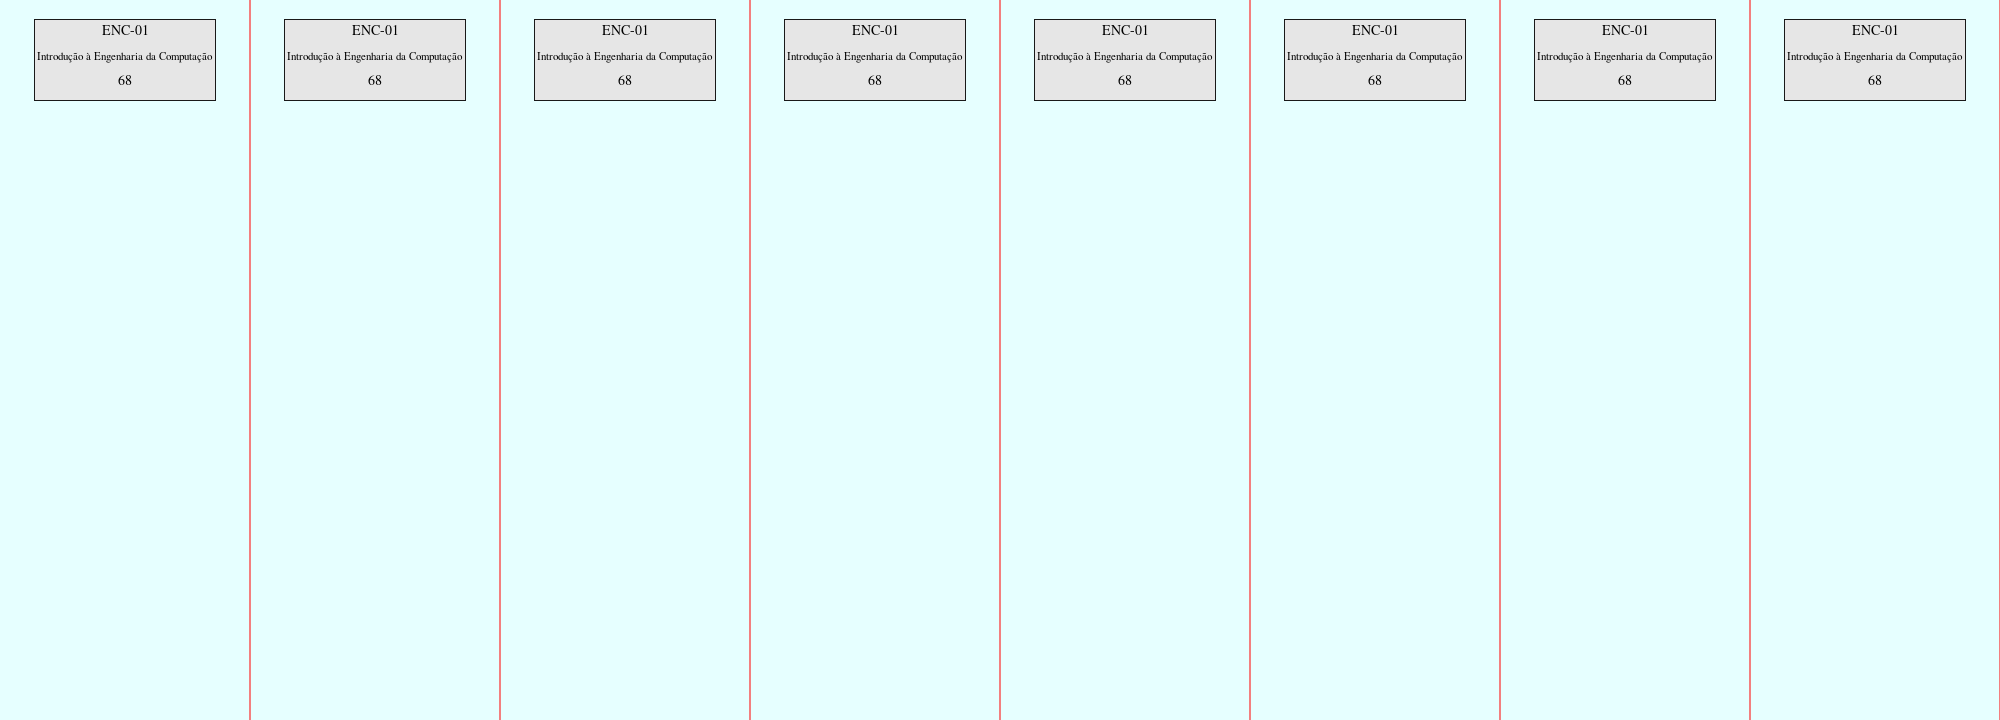
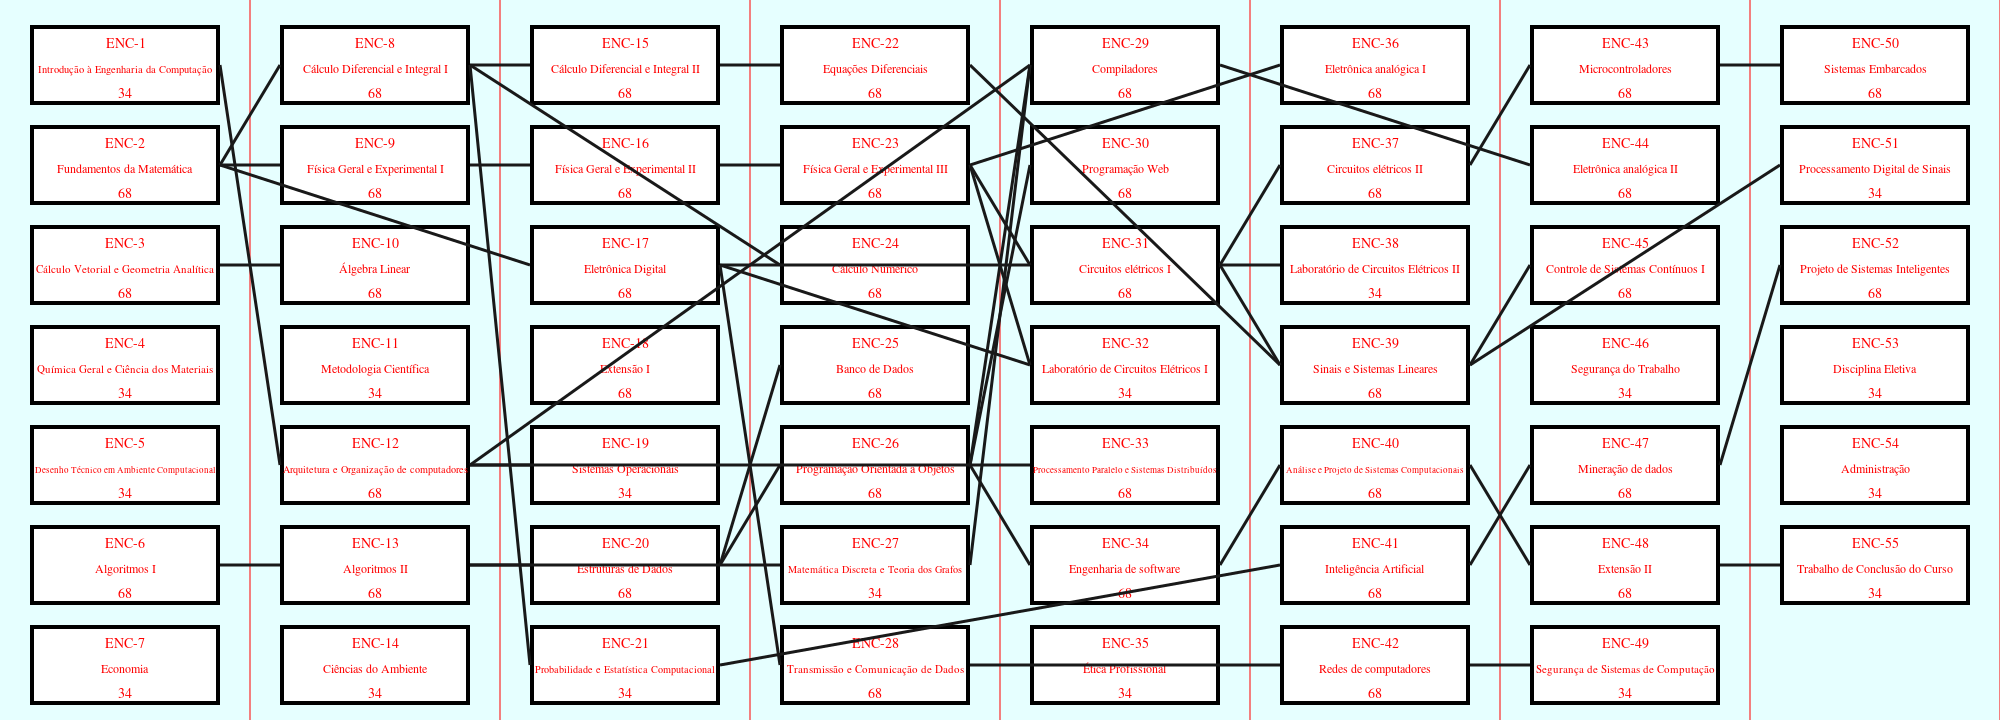
graph and dependecies plotted

diff --git a/draw.py b/draw.py
@@ -1,4 +1,5 @@
 import math
+import pandas as pd
 import cairo
 
 WIDTH, HEIGHT = 2000, 720
@@ -7,75 +8,136 @@ surface = cairo.ImageSurface(cairo.FORMAT_ARGB32, WIDTH, HEIGHT)
 ctx = cairo.Context(surface)
 ctx.select_font_face("Times", cairo.FONT_SLANT_NORMAL, cairo.FONT_WEIGHT_NORMAL)
 
-#ctx.scale(WIDTH, HEIGHT)  # Normalizing the canvas
-coord = {}
+lanes = {} # identified by index
+lane_count = {} # number of discipline per lane
+discipline = {} # identified by code
 
 def draw_background(*color):
     ctx.set_source_rgb(*color)
     ctx.rectangle(0, 0, WIDTH, HEIGHT)
     ctx.fill()
 
-def find_max_font_size(text, max_width):
-    font_size = 0
-    w = 0
-    while w < max_width:
-        font_size += 0.1
-        ctx.set_font_size(font_size)
-        _, _, w, _, _, _ = ctx.text_extents(text)
-    return font_size - 0.1
 
-def draw_text_f(x, y, text, max_width):
-    font_size = find_max_font_size(text, max_width)
+def set_font_size_and_get_width(font_size, text):
     ctx.set_font_size(font_size)
     _, _, w, _, _, _ = ctx.text_extents(text)
-    ctx.move_to(x + (max_width / 2 - w / 2), y)
+    return w
+
+def find_max_font_size(text, max_width):
+    font_size, width = 0, 0
+    while width < max_width:
+        font_size += 0.1
+        width = set_font_size_and_get_width(font_size, text)
+    width = set_font_size_and_get_width(font_size, text)
+    return font_size, width
+
+def center_horizontally(x, text_width, total_width):
+    return x + total_width / 2 - text_width / 2
+
+def middle(a, b):
+    return (a + b) / 2
+        
+
+def draw_text_centered_f(x, y, text, max_width, max_font_size=-float('inf')):
+    """
+        automatically adjust font size so that the width of text keeps constant
+    """
+    font_size, text_width = find_max_font_size(text, max_width)
+    text_width = set_font_size_and_get_width(min(font_size, max_font_size), text)
+    ctx.move_to(center_horizontally(x, text_width, max_width), y)
     ctx.show_text(text)
 
-def draw_text(x, y, text, width):
+def draw_text_centered(x, y, text, width):
+    """
+        draw a text centered in the space spacified by width starting at
+        position (x, y)
+    """
+    
     ctx.set_font_size(14)
     _, _, w, _, _, _ = ctx.text_extents(text)
     ctx.move_to(x + (width / 2 - w / 2), y)
     ctx.show_text(text)
     
-def draw_rectangle(x, y, w, h, color, border):
-    ms = 1
-    ctx.set_source_rgb(*border)
-    ctx.rectangle(x-ms, y-ms, w+2*ms, h+2*ms)
+def draw_rectangle(xi, yi, xf, yf, color, border_color, border_size):
+    ctx.set_source_rgb(*border_color)
+    ctx.rectangle(xi, yi, xf - xi, yf - yi)
     ctx.fill()
+
+    xi += border_size
+    yi += border_size
+    xf -= border_size
+    yf -= border_size
+    
     ctx.set_source_rgb(*color)
-    ctx.rectangle(x, y, w, h)
+    ctx.rectangle(xi, yi, xf - xi, yf - yi)
     ctx.fill()
+    return xi, yi, xf, yf
 
-def draw_lanes(n_lanes):
-    ctx.set_source_rgb(1, 0, 0)
+def draw_lanes(n_lanes, color=(1, 0, 0), line_width=1):
+    ctx.set_source_rgb(*color)
     width = WIDTH // n_lanes
-    ctx.set_line_width(1)
-    widths = []
+    ctx.set_line_width(line_width)
+    
     for i in range(n_lanes):
-        ctx.move_to((i+1)*width, 0)
-        ctx.line_to((i+1)*width, HEIGHT)
+        ctx.move_to((i + 1) * width, 0)
+        ctx.line_to((i + 1) * width, HEIGHT)
         ctx.stroke()
-        widths.append((i*width, (i+1)*width))
-    return widths
+        lanes[i + 1] = (i * width, (i + 1) * width)
+        lane_count[i + 1] = 0
+        
 
-def draw_discipline(limxi, limxf, width, height, code, name, duration):
-    x0 = limxi + ((limxf - limxi)/2 - width / 2)
-    xf = x0 + width
-    y0 = 20
-    draw_rectangle(x0, y0, width, 80, (0.9, 0.9, 0.9), (0.1, 0.1, 0.1))
-    coord[code] = [x0, y0, x0+width, y0+80]
-    ctx.set_source_rgb(0, 0, 0)
-    draw_text(x0, y0 + 15, code, width)
-    draw_text_f(x0, y0 + 40, name, width)
-    draw_text(x0, y0 + 65, str(duration), width)
+def draw_discipline(code, name, duration, semester, lanes, margin_size=30,
+                    border_size=4, padding_size=4, color=(1, 1, 1),
+                    border_color=(0, 0, 0)):
+    xi, xf = lanes[semester]
+    index_v = lane_count[semester]
     
+    xi += margin_size
+    xf -= margin_size
+    yi = 25 + 100 * index_v
+    yf =  yi + 80
+    discipline[code] = {"back": (xi, middle(yi, yf)), "front": (xf, middle(yi, yf))}
+    xi, yi, xf, yf = draw_rectangle(xi, yi, xf, yf, color, border_color,
+                                    border_size)
+    xi, yi, xf, yf = xi + padding_size, yi + padding_size, xf - padding_size, yf - padding_size
+    width = xf - xi
+    ctx.set_source_rgb(1, 0, 0)
+    draw_text_centered(xi, yi + 15, code, width) ## draw discipline's code
+    draw_text_centered_f(xi, yi + 40, name, width, max_font_size=12) ## draw discipline's name
+    draw_text_centered(xi, yi + 65, str(duration), width) ## draw discipline's durantion
+    lane_count[semester] += 1   
+
     
-def draw_edges():
-    pass
+def connect(src_code, dst_code, line_width=3, color=(0.1, 0.1, 0.1)):
+    ctx.save()
+    ctx.set_line_width(line_width)
+    ctx.set_source_rgba(*color)
+    src = discipline[src_code]["front"]
+    dst = discipline[dst_code]["back"]
+    ctx.move_to(*src)
+    ctx.line_to(*dst)
+    ctx.stroke()
 
-draw_background(0.9, 1, 1)
-widths = draw_lanes(8)
-for width in widths:
-    draw_discipline(width[0], width[1], 180, 150, "ENC-01", "Introdução à Engenharia da Computação", 68)
+    ctx.restore()
 
-surface.write_to_png("example.png")  # Output to PNG
+
+def main():
+    draw_background(0.9, 1, 1)
+    draw_lanes(8)
+
+    df = pd.read_csv("matrix.csv")
+    requirements = []
+    for i, row in df.iterrows():
+        draw_discipline(row["code"], row["name"], row["duration"], row["semester"], lanes)
+        if str(row["requirement"]).startswith("ENC"):
+            reqs = list(map(str.strip, row["requirement"].split(';')))
+            for r in reqs:
+                requirements.append((r, row["code"]))
+
+    for req in requirements:
+        connect(req[0], req[1])
+        
+    surface.write_to_png("example.png")  # Output to PNG
+
+if __name__ == "__main__":
+    main()

diff --git a/.#draw.py b/.#draw.py
@@ -1,0 +1,1 @@
+matheusc@ndido.6752:1697981459
